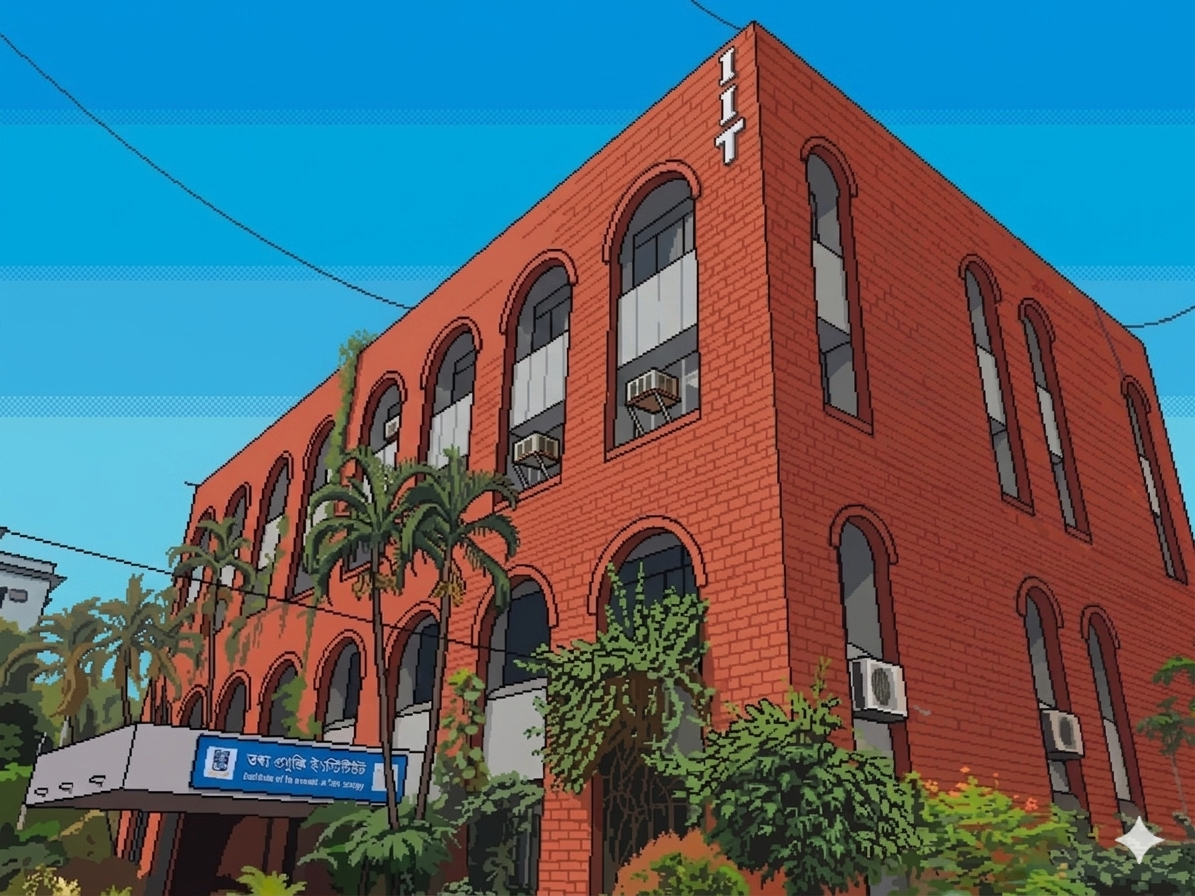
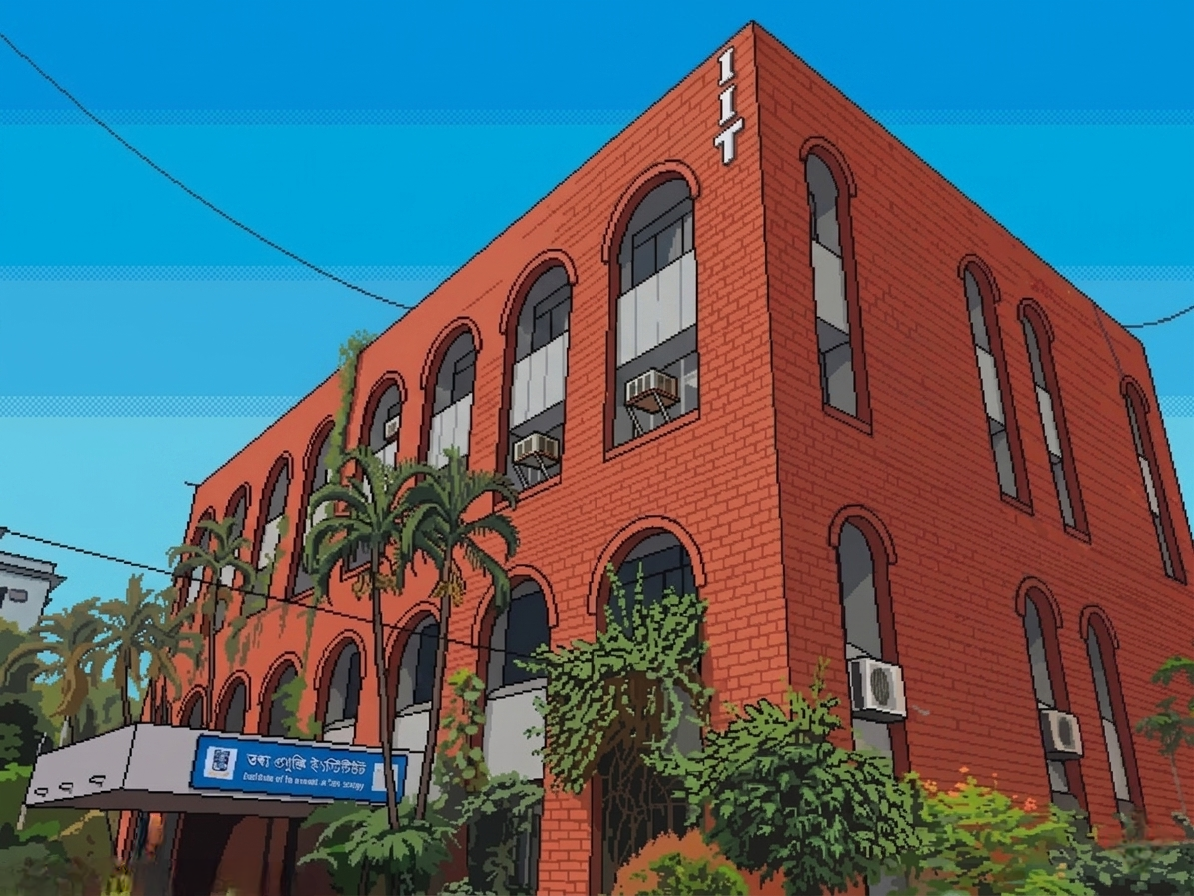
Add background, Need slight modifications

diff --git a/components/SkySection.tsx b/components/SkySection.tsx
@@ -1,0 +1,115 @@
+import { ReactNode } from "react";
+
+interface SkySectionProps {
+  children: ReactNode;
+}
+
+const getDitherSVG = (c1: string, c2: string) => {
+  // Creates a mathematically perfect 4-step pixel dither transition
+  // 16x16 SVG, 4x4 pixel blocks for a finer texture
+  const svg = `<svg xmlns="http://www.w3.org/2000/svg" width="16" height="16">
+    <rect width="16" height="16" fill="${c1}" />
+    <!-- 25% density -->
+    <rect x="4" y="0" width="4" height="4" fill="${c2}" />
+    <!-- 50% density -->
+    <rect x="0" y="4" width="4" height="4" fill="${c2}" />
+    <rect x="8" y="4" width="4" height="4" fill="${c2}" />
+    <!-- 50% density offset -->
+    <rect x="4" y="8" width="4" height="4" fill="${c2}" />
+    <rect x="12" y="8" width="4" height="4" fill="${c2}" />
+    <!-- 75% density -->
+    <rect x="0" y="12" width="16" height="4" fill="${c2}" />
+    <rect x="0" y="12" width="4" height="4" fill="${c1}" />
+  </svg>`;
+  return `url("data:image/svg+xml,${encodeURIComponent(svg)}")`;
+};
+
+export default function SkySection({ children }: SkySectionProps) {
+  const c1 = "#004650";
+  const c2 = "#00556C";
+  const c3 = "#006488";
+  const c4 = "#0073A3";
+  const c5 = "#0083BF";
+  const c6 = "#0092DB"; // Building top edge color
+
+  return (
+    <section 
+      className="w-full relative z-10 flex flex-col items-center justify-center min-h-[100svh] p-10"
+      style={{
+        background: `linear-gradient(
+          to bottom,
+          ${c1} 0%, ${c1} 20%,
+          ${c2} 20%, ${c2} 40%,
+          ${c3} 40%, ${c3} 60%,
+          ${c4} 60%, ${c4} 80%,
+          ${c5} 80%, ${c5} 100%
+        )`
+      }}
+    >
+      <style>{`
+        @keyframes drift {
+          from { transform: translateX(-200px); }
+          to { transform: translateX(110vw); }
+        }
+        .pixel-cloud {
+          position: absolute;
+          image-rendering: pixelated;
+          animation: drift linear infinite;
+          opacity: 0.8;
+          pointer-events: none;
+        }
+      `}</style>
+
+      {/* Cloud layer wrapper (keeps clouds from spilling out of the sky) */}
+      <div className="absolute inset-0 overflow-hidden pointer-events-none">
+        {/* Cloud 1 - Slow, big, background */}
+        <img 
+          src="/assets/cloud1.svg" 
+          className="pixel-cloud top-[15%] w-56 h-auto opacity-40" 
+          style={{ animationDuration: '55s', animationDelay: '-10s' }} 
+          alt="" 
+          aria-hidden 
+        />
+        
+        {/* Cloud 2 - Faster, smaller, foreground */}
+        <img 
+          src="/assets/cloud2.svg" 
+          className="pixel-cloud top-[35%] w-36 h-auto opacity-70" 
+          style={{ animationDuration: '35s', animationDelay: '-5s' }} 
+          alt="" 
+          aria-hidden 
+        />
+
+        {/* Cloud 1 - Medium, midground */}
+        <img 
+          src="/assets/cloud1.svg" 
+          className="pixel-cloud top-[65%] w-48 h-auto opacity-60" 
+          style={{ animationDuration: '45s', animationDelay: '-25s' }} 
+          alt="" 
+          aria-hidden 
+        />
+
+        {/* Cloud 2 - Very slow, far background */}
+        <img 
+          src="/assets/cloud2.svg" 
+          className="pixel-cloud top-[80%] w-28 h-auto opacity-30" 
+          style={{ animationDuration: '70s', animationDelay: '0s' }} 
+          alt="" 
+          aria-hidden 
+        />
+      </div>
+      
+      {/* Dither Junction Layers */}
+      <div className="absolute left-0 w-full h-[16px] pointer-events-none" style={{ top: 'calc(20% - 8px)', backgroundImage: getDitherSVG(c1, c2) }} />
+      <div className="absolute left-0 w-full h-[16px] pointer-events-none" style={{ top: 'calc(40% - 8px)', backgroundImage: getDitherSVG(c2, c3) }} />
+      <div className="absolute left-0 w-full h-[16px] pointer-events-none" style={{ top: 'calc(60% - 8px)', backgroundImage: getDitherSVG(c3, c4) }} />
+      <div className="absolute left-0 w-full h-[16px] pointer-events-none" style={{ top: 'calc(80% - 8px)', backgroundImage: getDitherSVG(c4, c5) }} />
+      {/* Bottom transition at the end of the sky section */}
+      <div className="absolute left-0 w-full h-[16px] pointer-events-none" style={{ bottom: 0, backgroundImage: getDitherSVG(c5, c6) }} />
+
+      <div className="relative z-10 w-full flex justify-center">
+        {children}
+      </div>
+    </section>
+  );
+}

diff --git a/components/TechUnderground.tsx b/components/TechUnderground.tsx
@@ -1,0 +1,96 @@
+import { ReactNode } from "react";
+
+interface TechUndergroundProps {
+  children?: ReactNode;
+}
+
+const getTechPattern = () => {
+  const svg = `<svg xmlns="http://www.w3.org/2000/svg" width="64" height="64" shape-rendering="crispEdges">
+    <rect width="64" height="64" fill="#00110F" />
+    
+    <!-- Vertical Traces -->
+    <rect x="12" y="0" width="2" height="32" fill="#003A30" />
+    <rect x="12" y="32" width="16" height="2" fill="#003A30" />
+    <rect x="28" y="32" width="2" height="32" fill="#003A30" />
+    
+    <rect x="44" y="0" width="2" height="64" fill="#00221c" />
+    <rect x="52" y="20" width="2" height="44" fill="#003A30" />
+    
+    <!-- Horizontal Traces -->
+    <rect x="0" y="16" width="12" height="2" fill="#003A30" />
+    <rect x="30" y="48" width="14" height="2" fill="#003A30" />
+    
+    <!-- Glowing Nodes -->
+    <rect x="10" y="14" width="6" height="6" fill="#16DBAB" />
+    <rect x="26" y="46" width="6" height="6" fill="#16DBAB" />
+    <rect x="50" y="18" width="6" height="6" fill="#004d40" />
+  </svg>`;
+  return `url("data:image/svg+xml,${encodeURIComponent(svg)}")`;
+};
+
+const getTechDither = (c1: string, c2: string) => {
+  const svg = `<svg xmlns="http://www.w3.org/2000/svg" width="16" height="16" shape-rendering="crispEdges">
+    <rect width="16" height="16" fill="${c1}" />
+    <rect x="4" y="0" width="4" height="4" fill="${c2}" />
+    <rect x="0" y="4" width="4" height="4" fill="${c2}" />
+    <rect x="8" y="4" width="4" height="4" fill="${c2}" />
+    <rect x="4" y="8" width="4" height="4" fill="${c2}" />
+    <rect x="12" y="8" width="4" height="4" fill="${c2}" />
+    <rect x="0" y="12" width="16" height="4" fill="${c2}" />
+    <rect x="0" y="12" width="4" height="4" fill="${c1}" />
+  </svg>`;
+  return `url("data:image/svg+xml,${encodeURIComponent(svg)}")`;
+};
+
+export default function TechUnderground({ children }: TechUndergroundProps) {
+  const footerColor = "#000000";
+  
+  return (
+    <section className="w-full relative min-h-[800px] flex flex-col items-center p-10 overflow-hidden">
+      {/* Blurred Abstract Tech Layer */}
+      <div 
+        className="absolute inset-0 z-0 blur-[6px] opacity-60" 
+        style={{
+          backgroundImage: getTechPattern(),
+          backgroundSize: '128px 128px',
+          backgroundRepeat: 'repeat',
+          imageRendering: 'pixelated'
+        }}
+      />
+      
+      {/* Sharp Pixelated Overlay (Retains the "pixel" feel) */}
+      <div 
+        className="absolute inset-0 z-[1] opacity-[0.12] pointer-events-none" 
+        style={{
+          backgroundImage: getTechPattern(),
+          backgroundSize: '128px 128px',
+          backgroundRepeat: 'repeat',
+          imageRendering: 'pixelated'
+        }}
+      />
+      
+      <div className="container mx-auto z-10">
+        {children || (
+          <div className="text-center mt-20 max-w-2xl mx-auto">
+            <h2 className="text-4xl text-[var(--mint)] mb-4 drop-shadow-[0_0_10px_rgba(22,219,171,0.5)]">Software Systems</h2>
+            <p className="text-xl text-[var(--foreground)] bg-[#00110F]/80 p-6 rounded border border-[var(--mint)]/30 backdrop-blur">
+              Continuous background repeating downward infinitely. Perfect for adding any future content, sponsors, or FAQs.
+            </p>
+          </div>
+        )}
+      </div>
+
+      {/* Tech to Footer Transition */}
+      <div 
+        className="absolute bottom-0 left-0 w-full h-[32px] z-30 pointer-events-none" 
+        style={{ 
+          backgroundImage: getTechDither('transparent', footerColor),
+          transform: 'scaleY(-1)'
+        }} 
+      />
+      
+      {/* Darker gradient at the bottom */}
+      <div className="absolute bottom-0 left-0 w-full h-64 bg-gradient-to-t from-black via-black/40 to-transparent z-20 pointer-events-none" />
+    </section>
+  );
+}

diff --git a/components/ScheduleSection.tsx b/components/ScheduleSection.tsx
@@ -1,0 +1,59 @@
+import { ReactNode } from "react";
+
+interface ScheduleSectionProps {
+  children?: ReactNode;
+}
+
+const getGroundDither = (c1: string, c2: string) => {
+  const svg = `<svg xmlns="http://www.w3.org/2000/svg" width="16" height="16" shape-rendering="crispEdges">
+    <rect width="16" height="16" fill="${c1}" />
+    <rect x="4" y="0" width="4" height="4" fill="${c2}" />
+    <rect x="0" y="4" width="4" height="4" fill="${c2}" />
+    <rect x="8" y="4" width="4" height="4" fill="${c2}" />
+    <rect x="4" y="8" width="4" height="4" fill="${c2}" />
+    <rect x="12" y="8" width="4" height="4" fill="${c2}" />
+    <rect x="0" y="12" width="16" height="4" fill="${c2}" />
+    <rect x="0" y="12" width="4" height="4" fill="${c1}" />
+  </svg>`;
+  return `url("data:image/svg+xml,${encodeURIComponent(svg)}")`;
+};
+
+export default function ScheduleSection({ children }: ScheduleSectionProps) {
+  const techColor = "#00110F";
+  
+  return (
+    <section 
+      className="w-full relative min-h-[896px] flex flex-col items-center justify-center p-10 overflow-hidden"
+      style={{
+        backgroundImage: "url('/assets/iit-building.png')",
+        backgroundSize: "cover",
+        backgroundPosition: "top center",
+        backgroundRepeat: "no-repeat"
+      }}
+    >
+      {/* Ground Dither Transition */}
+      <div 
+        className="absolute bottom-0 left-0 w-full h-[32px] z-30 pointer-events-none" 
+        style={{ 
+          backgroundImage: getGroundDither('transparent', techColor),
+          transform: 'scaleY(-1)'
+        }} 
+      />
+
+      {/* Dramatic Ground Fog / Glow */}
+      <div className="absolute bottom-0 left-0 w-full h-64 bg-gradient-to-t from-[#00110F] via-[#00110F]/80 to-transparent z-20 pointer-events-none" />
+      
+      {/* Subtle Blur for depth */}
+      <div className="absolute bottom-0 left-0 w-full h-48 backdrop-blur-[1px] z-10 pointer-events-none" style={{ maskImage: 'linear-gradient(to top, black, transparent)' }} />
+
+      <div className="container mx-auto relative z-40">
+        {children || (
+          <div className="bg-black/60 backdrop-blur-sm p-8 rounded-xl border border-[var(--mint-soft)] text-center max-w-2xl mx-auto">
+            <h2 className="text-3xl text-[var(--mint-soft)] mb-4">Schedule</h2>
+            <p className="text-lg">Schedule events will appear here, perfectly situated over the IIT Indoors building!</p>
+          </div>
+        )}
+      </div>
+    </section>
+  );
+}

diff --git a/components/UndergroundSection.tsx b/components/UndergroundSection.tsx
@@ -1,0 +1,25 @@
+import { ReactNode } from "react";
+
+interface UndergroundSectionProps {
+  children?: ReactNode;
+}
+
+export default function UndergroundSection({ children }: UndergroundSectionProps) {
+  return (
+    <section 
+      className="w-full relative min-h-[50vh] p-10 flex flex-col items-center"
+      style={{
+        // Start exactly from the dark brown at the bottom of the building and fade back to transparent to reveal the global dark theme
+        background: 'linear-gradient(to bottom, rgb(86, 48, 35) 0%, transparent 100%)'
+      }}
+    >
+      <div className="container mx-auto">
+        {children || (
+          <div className="text-center opacity-70 mt-20">
+            <p>Underground content goes here</p>
+          </div>
+        )}
+      </div>
+    </section>
+  );
+}

diff --git a/components/EpicFooter.tsx b/components/EpicFooter.tsx
@@ -1,0 +1,22 @@
+import Image from "next/image";
+
+export default function EpicFooter() {
+  return (
+    <section className="w-full relative min-h-[600px] flex flex-col items-center justify-end bg-black overflow-hidden">
+      {/* Gradient fading the tech pattern into the epic footer */}
+      <div className="absolute top-0 left-0 w-full h-48 bg-gradient-to-b from-[#00110F] to-transparent z-10" />
+
+      <Image
+        src="/assets/epic_core_bgs.png"
+        alt="Glowing Mainframe Core"
+        fill
+        className="object-cover object-bottom opacity-90"
+      />
+
+      <div className="relative z-20 pb-12 text-center drop-shadow-2xl">
+        <h2 className="text-5xl text-[var(--mint)] font-bold tracking-wider" style={{ textShadow: '0 0 20px var(--mint)' }}>THE CORE</h2>
+        <p className="text-[var(--foreground)] mt-2">End of the line.</p>
+      </div>
+    </section>
+  );
+}

diff --git a/app/page.tsx b/app/page.tsx
@@ -1,10 +1,24 @@
 import LandingSection from "@/components/LandingSection";
 import PageContainer from "@/components/PageContainer";
+import Hero from "@/components/Hero";
+import SkySection from "@/components/SkySection";
+import ScheduleSection from "@/components/ScheduleSection";
+import TechUnderground from "@/components/TechUnderground";
+import EpicFooter from "@/components/EpicFooter";
 
 export default function Home() {
   return (
-    <PageContainer>
-      <LandingSection />
-    </PageContainer>
+    <main className="w-full flex flex-col min-h-screen">
+      <SkySection>
+        <Hero />
+      </SkySection>
+      <ScheduleSection />
+      <TechUnderground>
+        <PageContainer>
+          <LandingSection />
+        </PageContainer>
+      </TechUnderground>
+      <EpicFooter />
+    </main>
   );
 }

diff --git a/components/Hero.tsx b/components/Hero.tsx
@@ -15,7 +15,7 @@ export default function Hero() {
   return (
     <section className="w-full max-w-4xl flex flex-col items-center gap-4" aria-label="iit indoors hero section">
       <p
-        className="tracking-widest text-xl md:text-3xl drop-shadow-lg hero-kicker"
+        className="tracking-widest text-4xl md:text-6xl drop-shadow-lg hero-kicker"
         style={{
           color: 'var(--mint-soft)',
           textShadow: '0 0 14px rgba(102, 245, 207, 0.55)'
@@ -24,7 +24,7 @@ export default function Hero() {
         welcome to
       </p>
       <Image
-        className={`w-3/4 h-auto hero-logo ${entered ? 'logo-enter' : ''}`}
+        className={`w-2/3 md:w-3/5 h-auto hero-logo ${entered ? 'logo-enter' : ''}`}
         src="/assets/Logo.png"
         alt="iit indoors 2026 logo"
         width={1599}

diff --git a/app/globals.css b/app/globals.css
@@ -13,8 +13,7 @@ body {
     linear-gradient(rgba(0,0,0,0.15), rgba(0,0,0,0.15)),
     radial-gradient(circle at 12% 18%, rgba(22, 219, 171, 0.12), transparent 40%),
     radial-gradient(circle at 88% 78%, rgba(102, 245, 207, 0.12), transparent 38%),
-    linear-gradient(160deg, #001715 0%, var(--deep-teal) 55%, #00110f 100%),
-    url('/assets/iit-building.png') center/cover no-repeat;
+    linear-gradient(160deg, #001715 0%, var(--deep-teal) 55%, #00110f 100%);
   background-attachment: fixed;
   color: var(--foreground);
   font-family: var(--font-pixelify), sans-serif;